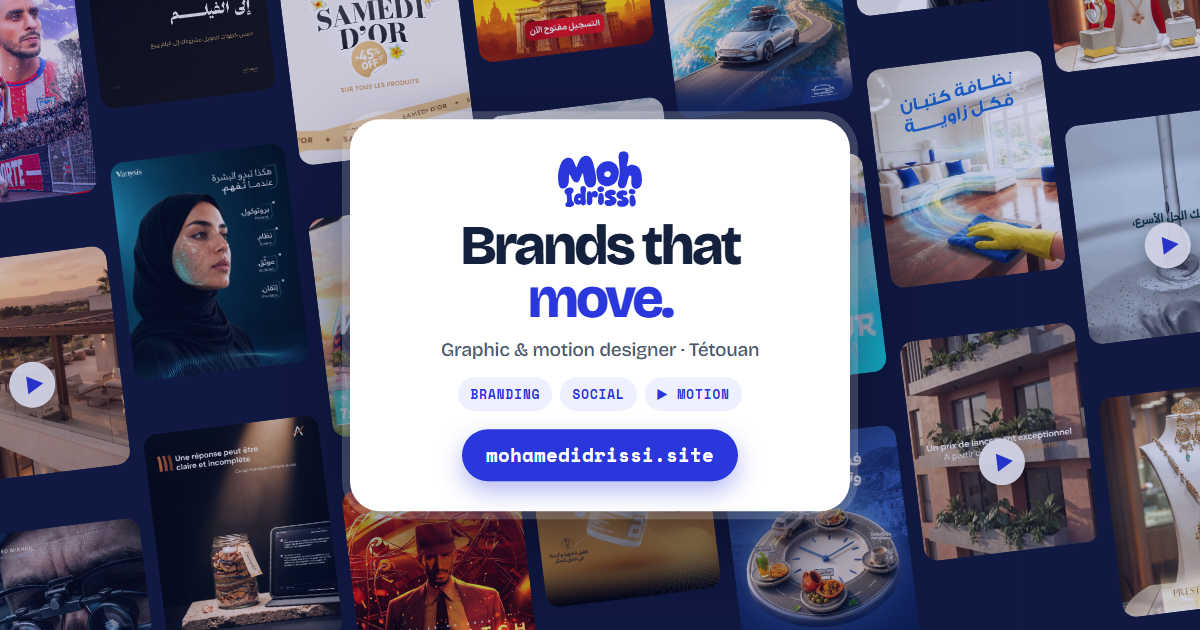
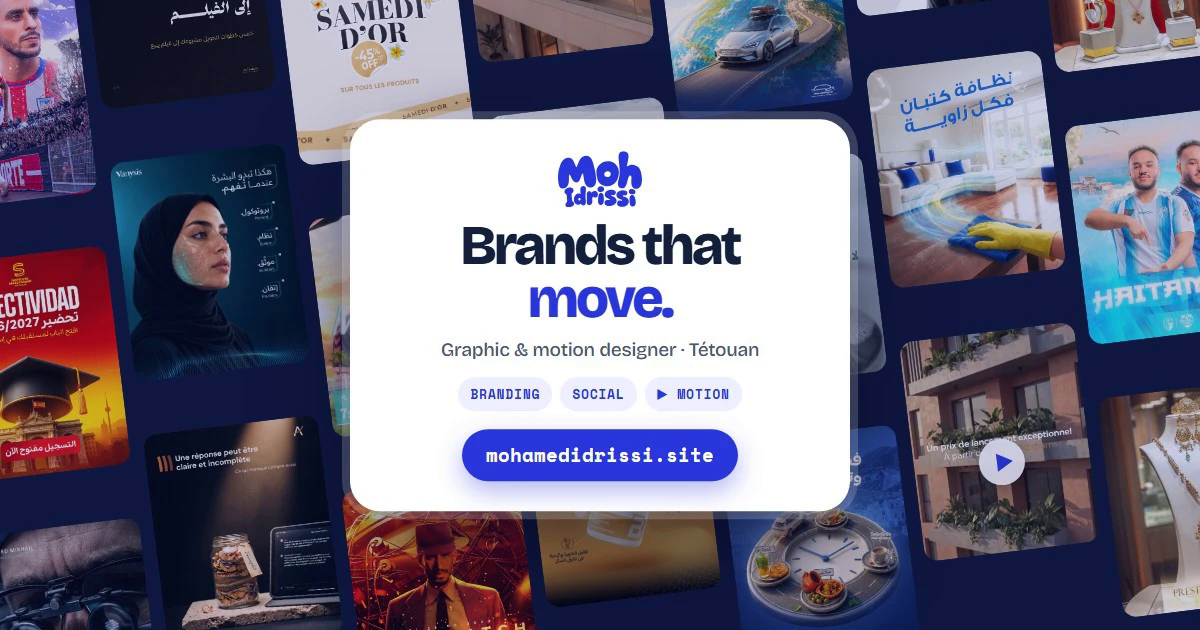
Share image: the version Mohamed chose (one play badge on the right)
public/og-image.png is his chosen render; og-card.html is back to the tile
order that produces it. og:image bumped to ?v=3.

diff --git a/scripts/og/og-card.html b/scripts/og/og-card.html
@@ -29,6 +29,6 @@ h1 span{color:var(--blue)}
 .tags b{padding:7px 12px;border-radius:999px;background:#eef0ff;color:var(--blue)}
 .url{display:inline-block;margin-top:18px;padding:12px 24px;border-radius:999px;background:var(--blue);color:var(--white);font-family:'Space Mono',monospace;font-size:19px;font-weight:700;letter-spacing:.02em;box-shadow:0 10px 24px rgba(42,55,221,.35)}
 </style>
-<div class="wall"><figure><img src="/public/projects/mat/selected/web/MOHAMADIA.jpg.webp"></figure><figure><img src="/public/projects/maalem/selected/web/13.webp"></figure><figure><img src="/public/projects/bio-care-beauty/selected/web/01.jpg"></figure><figure><img src="/public/projects/instituto-selectividad/selected/web/01.jpg"></figure><figure><img src="/public/projects/haut-standing-car/selected/web/01.jpg"></figure><figure><img src="/public/projects/justfit/selected/web/123_02.jpg.webp"></figure><figure><img src="/public/projects/safwan-or/selected/web/01.jpg"></figure><figure class=v><img src="/public/motion/fes-villas-cinematic/poster.webp"></figure><figure><img src="/public/projects/vanysis/selected/web/POST%2015c.png.webp"></figure><figure><img src="/public/projects/sarasota-paradise/selected/web/01.jpg"></figure><figure><img src="/public/projects/exploremorocco/selected/web/explore-morocco2_01%201.png.webp"></figure><figure><img src="/public/projects/e-botola/selected/web/Haitam-Jr1.jpg.webp"></figure><figure><img src="/public/projects/elif-menage/selected/web/03.jpg"></figure><figure class=v><img src="/public/motion/vanysis-reel-03/poster.webp"></figure><figure><img src="/public/projects/dr-majed-mikhail/selected/web/01%20%E2%80%94%20BLEU%20%C2%B7%20Autorit%C3%A9-2.jpg.webp"></figure><figure><img src="/public/projects/aqluma/selected/web/01.webp"></figure><figure><img src="/public/projects/mat/selected/web/Oppenheimer-poster-1.jpg.webp"></figure><figure><img src="/public/projects/is-nutrition/selected/web/333.jpg.webp"></figure><figure><img src="/public/projects/haut-standing-car/selected/web/02.jpg"></figure><figure class=v><img src="/public/motion/neo-square/poster.webp"></figure><figure><img src="/public/projects/safwan-or/selected/web/02.jpg"></figure></div>
+<div class="wall"><figure><img src="/public/projects/mat/selected/web/MOHAMADIA.jpg.webp"></figure><figure><img src="/public/projects/maalem/selected/web/13.webp"></figure><figure><img src="/public/projects/bio-care-beauty/selected/web/01.jpg"></figure><figure class=v><img src="/public/motion/fes-villas-cinematic/poster.webp"></figure><figure><img src="/public/projects/haut-standing-car/selected/web/01.jpg"></figure><figure><img src="/public/projects/justfit/selected/web/123_02.jpg.webp"></figure><figure><img src="/public/projects/safwan-or/selected/web/01.jpg"></figure><figure><img src="/public/projects/instituto-selectividad/selected/web/01.jpg"></figure><figure><img src="/public/projects/vanysis/selected/web/POST%2015c.png.webp"></figure><figure><img src="/public/projects/sarasota-paradise/selected/web/01.jpg"></figure><figure><img src="/public/projects/exploremorocco/selected/web/explore-morocco2_01%201.png.webp"></figure><figure class=v><img src="/public/motion/vanysis-reel-03/poster.webp"></figure><figure><img src="/public/projects/elif-menage/selected/web/03.jpg"></figure><figure><img src="/public/projects/e-botola/selected/web/Haitam-Jr1.jpg.webp"></figure><figure><img src="/public/projects/dr-majed-mikhail/selected/web/01%20%E2%80%94%20BLEU%20%C2%B7%20Autorit%C3%A9-2.jpg.webp"></figure><figure><img src="/public/projects/aqluma/selected/web/01.webp"></figure><figure><img src="/public/projects/mat/selected/web/Oppenheimer-poster-1.jpg.webp"></figure><figure><img src="/public/projects/is-nutrition/selected/web/333.jpg.webp"></figure><figure><img src="/public/projects/haut-standing-car/selected/web/02.jpg"></figure><figure class=v><img src="/public/motion/neo-square/poster.webp"></figure><figure><img src="/public/projects/safwan-or/selected/web/02.jpg"></figure></div>
 <div class="shade"></div>
 <div class="card"><img class="logo" src="/public/images/brand-icon.svg"><h1>Brands that<br><span>move.</span></h1><p class="role">Graphic &amp; motion designer · Tétouan</p><div class="tags"><b>Branding</b><b>Social</b><b>▶ Motion</b></div><p class="url">mohamedidrissi.site</p></div>
